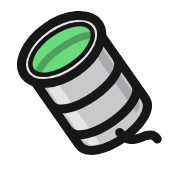
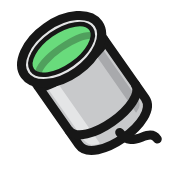
Move upper can ribs clear of role stamps and fit mobile brand during font loading

diff --git a/e2e/brand-layout.spec.ts b/e2e/brand-layout.spec.ts
@@ -1,0 +1,46 @@
+import { expect, test } from "./support/coverage"
+
+for (const width of [320, 360, 390]) {
+  test(`Given ${width}px mobile header, when Caveat is pending then ${width === 320 ? "fails" : "loads"}, then full brand name stays before controls`, async ({ page }, info) => {
+    await page.setViewportSize({ width, height: 844 })
+    let release!: () => void
+    const pending = new Promise<void>(resolve => { release = resolve })
+    await page.route("**/caveat-*.woff2", async route => {
+      await pending
+      if (width === 320) await route.abort()
+      else await route.continue()
+    })
+    await page.goto("/", { waitUntil: "domcontentloaded" })
+    const menu = page.getByRole("button", { name: "Menu", exact: true })
+    await expect(menu).toBeEnabled()
+    const fits = () => page.locator(".brand-name").evaluate(element => {
+      const range = document.createRange()
+      range.selectNodeContents(element)
+      const text = range.getBoundingClientRect()
+      const controls = document.querySelector(".topbar-mobile-controls")!.getBoundingClientRect()
+      return { text: element.textContent, fits: text.right + 4 <= controls.left && text.left >= 0 && controls.right <= innerWidth }
+    })
+    expect(await fits()).toEqual({ text: "TINCANBAN", fits: true })
+    release()
+    await page.evaluate(() => document.fonts.ready)
+    expect(await fits()).toEqual({ text: "TINCANBAN", fits: true })
+    await page.screenshot({ path: info.outputPath("brand-font-settled.png") })
+    await menu.click()
+    await expect(page.getByRole("dialog", { name: "Navigation menu" })).toBeVisible()
+  })
+}
+
+test("Given owner board, when its can logo opens workspaces, then centered role stamp remains visible", async ({ page }, info) => {
+  await page.goto("/")
+  const brand = page.getByRole("button", { name: "Open workspaces", exact: true })
+  await expect(brand).toBeEnabled()
+  await expect(brand.getByRole("img", { name: "Workspace role: owner", exact: true })).toBeVisible()
+  await brand.locator(".brand-mark").evaluate(element => {
+    const mark = element as HTMLElement
+    mark.style.width = "160px"
+    mark.style.height = "200px"
+  })
+  await brand.locator(".brand-mark").screenshot({ path: info.outputPath("can-owner-ribs.png") })
+  await brand.click()
+  await expect(page.getByRole("dialog", { name: "Workspaces", exact: true })).toBeVisible()
+})

diff --git a/e2e/favicon.spec.ts b/e2e/favicon.spec.ts
@@ -42,16 +42,16 @@ test("Given a ready board with no peers, when its tab opens, then tincanban favi
 test("Given app startup fails, when its tab opens, then tincanban icon still loads", async ({ page }) => {
   await page.route("**/src/main.ts", route => route.abort())
   await page.goto("/", { waitUntil: "domcontentloaded" })
-  await expect(page.locator('link[rel="icon"][type="image/svg+xml"]')).toHaveAttribute("href", "/favicon.svg?v=7")
+  await expect(page.locator('link[rel="icon"][type="image/svg+xml"]')).toHaveAttribute("href", "/favicon.svg?v=8")
   await faviconLoads(page, [105, 219, 124])
 })
 
 test("Given favicon animation cannot load, when the board opens, then the static icon and local board remain available", async ({ page }) => {
-  await page.route("**/favicon.svg?v=7", route => route.request().resourceType() === "fetch"
+  await page.route("**/favicon.svg?v=8", route => route.request().resourceType() === "fetch"
     ? route.fulfill({ status: 503, body: "Unavailable" }) : route.continue())
   await page.goto("/")
   await expect(page.getByRole("button", { name: "Open workspaces" })).toBeEnabled()
   await expect(page.getByLabel("Mesh empty", { exact: true })).toBeVisible()
-  await expect(page.locator('link[rel="icon"][type="image/svg+xml"]')).toHaveAttribute("href", "/favicon.svg?v=7")
+  await expect(page.locator('link[rel="icon"][type="image/svg+xml"]')).toHaveAttribute("href", "/favicon.svg?v=8")
   await faviconLoads(page, [105, 219, 124])
 })

diff --git a/src/style.css b/src/style.css
@@ -494,6 +494,7 @@ select { min-height: 42px; padding: 8px 26px 8px 10px; }
   }
   .topbar {
     min-height: 60px;
+    gap: 12px;
     padding: max(10px, var(--safe-top)) max(16px, var(--safe-right)) 10px max(16px, var(--safe-left));
     display: flex;
     justify-content: space-between;
@@ -507,6 +508,7 @@ select { min-height: 42px; padding: 8px 26px 8px 10px; }
   }
   .topbar-mobile-controls {
     display: flex;
+    flex-shrink: 0;
     align-items: center;
     gap: 10px;
     margin-left: auto;
@@ -514,7 +516,8 @@ select { min-height: 42px; padding: 8px 26px 8px 10px; }
   .brand { min-width: 0; }
   .brand-button { flex: 1; }
   .brand > div { min-width: 0; }
-  .brand h1 { font-size: 20px; }
+  .brand h1 { font-size: clamp(16px, 5.56vw, 20px); }
+  .brand-name { padding-inline-end: .25em; }
   .brand-name, .workspace-heading { display: block; white-space: nowrap; }
   .brand-separator { display: none; }
   .workspace-heading { margin-top: 3px; overflow: hidden; text-overflow: ellipsis; font-size: .8rem; }
@@ -625,9 +628,6 @@ select { min-height: 42px; padding: 8px 26px 8px 10px; }
   .add-column-card { flex-basis: calc(100vw - 32px); min-width: 0; scroll-snap-align: start; }
 }
 @media (max-width: 500px) {
-  .brand {
-    flex: 0 0 auto;
-  }
   .filters-panel .lead-filters {
     grid-template-columns: 1fr;
   }

diff --git a/index.html b/index.html
@@ -7,9 +7,9 @@
     <title>tincanban</title>
     <link rel="stylesheet" href="/assets/primitive.css?v=4" />
     <link rel="preload" href="/assets/caveat-latin-wght.woff2" as="font" type="font/woff2" crossorigin />
-    <link rel="icon" href="/favicon.png?v=7" type="image/png" sizes="32x32" />
-    <link rel="icon" href="/favicon.svg?v=7" type="image/svg+xml" />
-    <link rel="apple-touch-icon" href="/apple-touch-icon.png?v=7" />
+    <link rel="icon" href="/favicon.png?v=8" type="image/png" sizes="32x32" />
+    <link rel="icon" href="/favicon.svg?v=8" type="image/svg+xml" />
+    <link rel="apple-touch-icon" href="/apple-touch-icon.png?v=8" />
   </head>
   <body>
     <div id="app"></div>

diff --git a/src/components/BrandCan.vue b/src/components/BrandCan.vue
@@ -19,7 +19,7 @@ const colors = computed(() => appearance.value ? {
 <template>
   <span class="brand-mark" :class="`is-${presence}`" :style="colors">
     <svg viewBox="0 0 64 80" role="img" :aria-label="label">
-      <use :href="'/logo.svg?v=2#can-logo'" />
+      <use :href="'/logo.svg?v=3#can-logo'" />
     </svg>
     <svg v-if="appearance" class="can-role-stamp" viewBox="0 0 64 80" role="img" :aria-label="`Workspace role: ${accessRole}`" :data-role-stamp="accessRole">
       <path transform="translate(20 38)" :d="appearance.stamp" fill="#171717" fill-opacity=".75" stroke="#171717" stroke-width="1.5" stroke-linejoin="round" />

diff --git a/playwright.config.ts b/playwright.config.ts
@@ -36,7 +36,7 @@ export default defineConfig({
   retries: process.env.CI ? 1 : 0,
   projects: [
     { name: "core", testIgnore: networkSpecs },
-    { name: "mobile-webkit", testMatch: "**/mobile-overlay-safe-area.spec.ts", use: { browserName: "webkit" } },
+    { name: "mobile-webkit", testMatch: ["**/mobile-overlay-safe-area.spec.ts", "**/brand-layout.spec.ts"], use: { browserName: "webkit" } },
     ...groupedNetworkSpecs.map(spec => ({
       name: spec.match(/([^/]+)\.spec\.ts$/)?.[1] ?? spec,
       testMatch: spec,

diff --git a/public/agent/index.html b/public/agent/index.html
@@ -54,7 +54,7 @@
   </head>
   <body>
     <header class="topbar">
-      <a class="brand" href="/"><img class="brand-can" src="/logo.svg?v=2" alt="" width="32" height="40" /><span>TINCANBAN</span></a>
+      <a class="brand" href="/"><img class="brand-can" src="/logo.svg?v=3" alt="" width="32" height="40" /><span>TINCANBAN</span></a>
     </header>
 
     <main>
